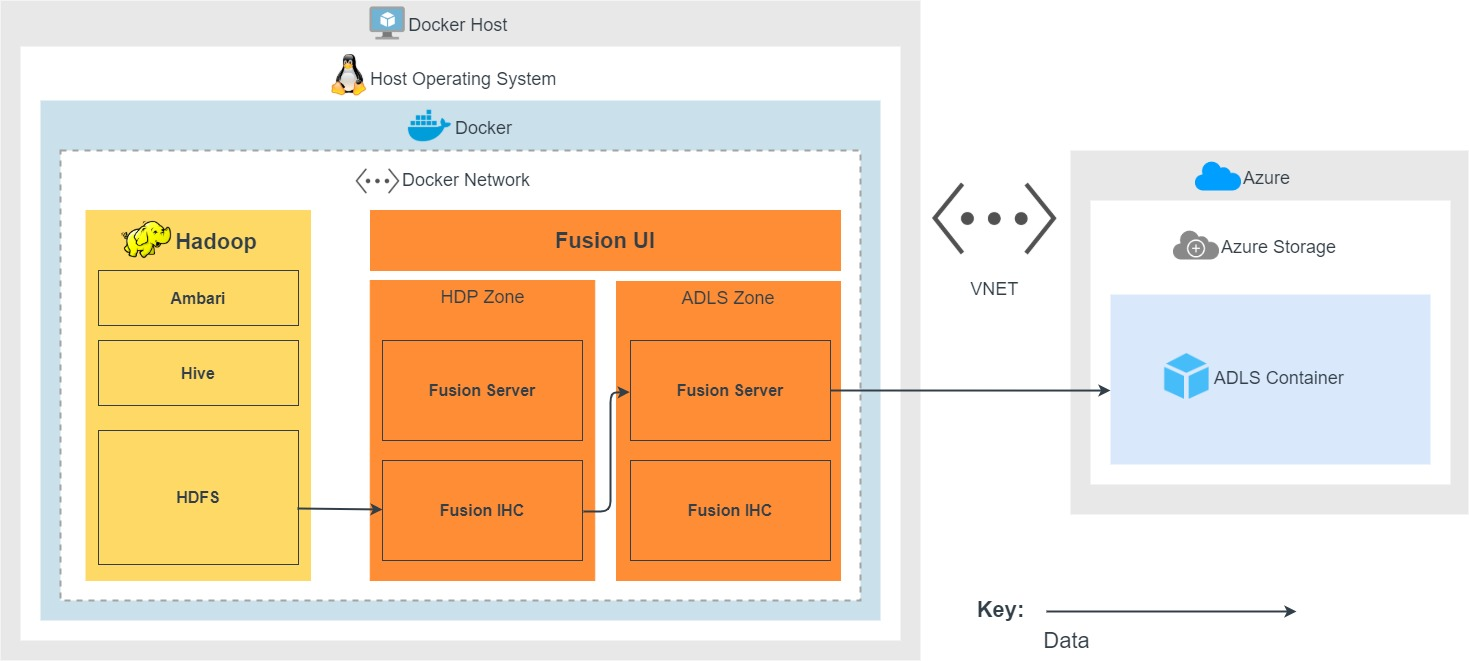
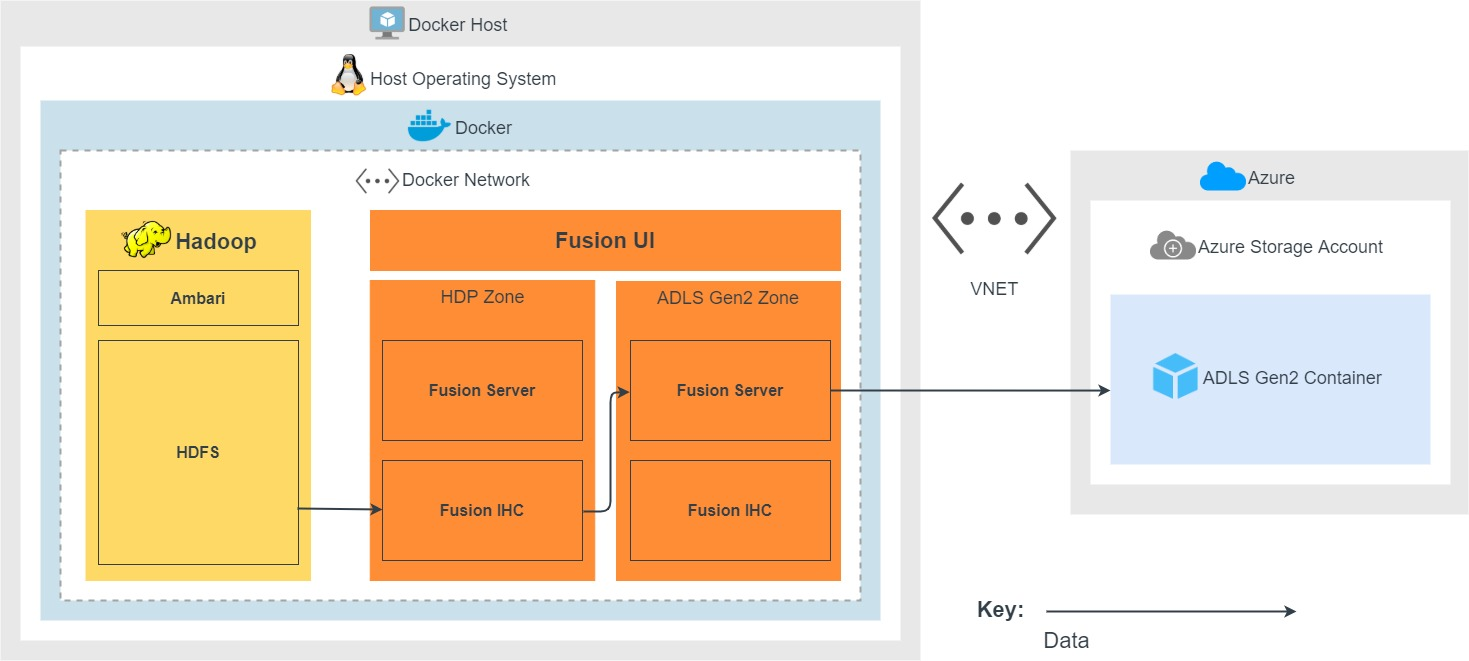
Review changes for DOCU-504

diff --git a/docs/docs/architecture/arch_hdp_sandbox_az_databricks_lan.md b/docs/docs/architecture/arch_hdp_sandbox_az_databricks_lan.md
@@ -7,8 +7,8 @@ sidebar_label: HDP Sandbox to Azure Databricks with LiveAnalytics
 ![Architecture: HDP Sandbox to Azure Databricks with LiveAnalytics](../../assets/arch_hdp_sandbox_az_databricks_lan.jpg)
 
 1. Live Hive Proxy will intercept and co-ordinate the Hive request with the Fusion Server on the HDP zone.
-1. If the request is on a database/table that matches a Hive rule, the Fusion Server in the HDP zone will coordinate with the Fusion Server in the ADLS zone (read requests are passed through to Hive). Metadata is replicated from the HDP zone to the ADLS zone.
-1. Any related HDFS data writes/changes are read by the Fusion IHC in the HDP zone, and replicated to the Fusion Server in the ADLS zone.
+1. If the request is on a database/table that matches a Hive rule, the Fusion Server in the HDP zone will coordinate with the Fusion Server in the ADLS Gen2 zone (read requests are passed through to Hive). Metadata is replicated from the HDP zone to the ADLS Gen2 zone.
+1. Any related HDFS data writes/changes are read by the Fusion IHC in the HDP zone, and replicated to the Fusion Server in the ADLS Gen2 zone.
 1. The Fusion Server in the ADLS zone will transform the Hive metadata to equivalent changes on the Azure Databricks Delta Lake tables.
-1. The Fusion Server in the ADLS zone will transform the HDFS data to equivalent ADLS storage changes in Azure.
-1. The ADLS storage changes are then pushed to the Databricks cluster automatically through Fusion's [ETL](https://en.wikipedia.org/wiki/Extract,_transform,_load) library (installed on the Databricks cluster).
+1. The Fusion Server in the ADLS zone will transform the HDFS data to equivalent ADLS Gen2 storage changes.
+1. The ADLS Gen2 storage changes are then pushed to the Databricks cluster automatically through Fusion's ETL library (installed on the Databricks cluster).

diff --git a/docs/docs/architecture/arch_hdp_sandbox_adlsg2.md b/docs/docs/architecture/arch_hdp_sandbox_adlsg2.md
@@ -6,6 +6,6 @@ sidebar_label: HDP Sandbox to ADLS Gen2
 
 ![Architecture: HDP Sandbox to ADLS Gen2](../../assets/arch_hdp_sandbox_adlsg2.jpg)
 
-1. If a HDFS write request is on a path that matches a HCFS rule, the Fusion Server in the HDP zone will coordinate with the Fusion Server in the ADLS zone (read requests are passed through to HDFS).
-1. HDFS writes/changes are then read by the Fusion IHC in the HDP zone, and replicated to the Fusion Server in the ADLS zone.
-1. The Fusion Server in the ADLS zone will transform the HDFS data to equivalent ADLS storage changes in Azure.
+1. If a HDFS write request is on a path that matches a HCFS rule, the Fusion Server in the HDP zone will coordinate with the Fusion Server in the ADLS Gen2 zone (read requests are passed through to HDFS).
+1. HDFS writes/changes are then read by the Fusion IHC in the HDP zone, and replicated to the Fusion Server in the ADLS Gen2 zone.
+1. The Fusion Server in the ADLS Gen2 zone will transform the HDFS data to equivalent ADLS Gen2 storage changes.
